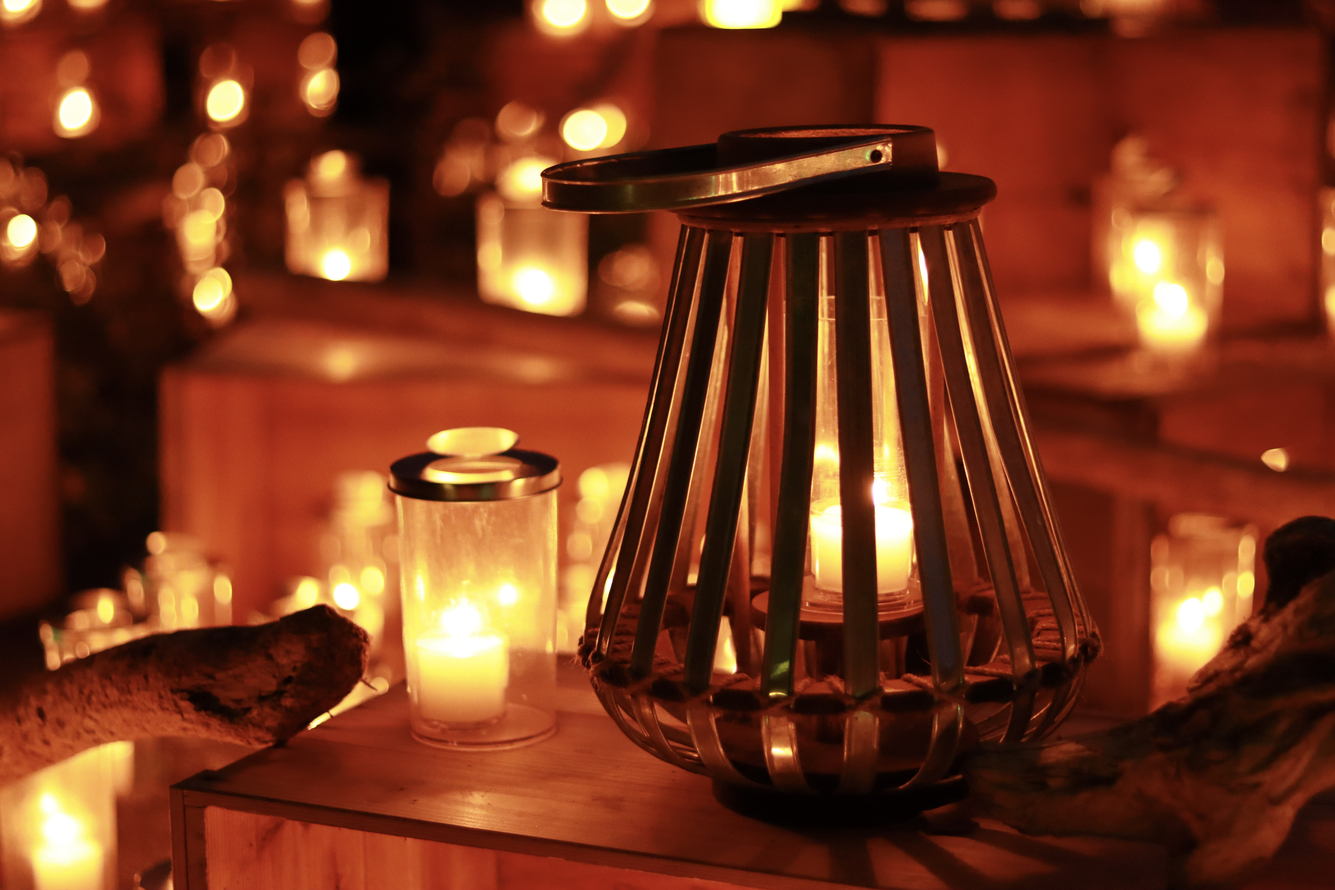
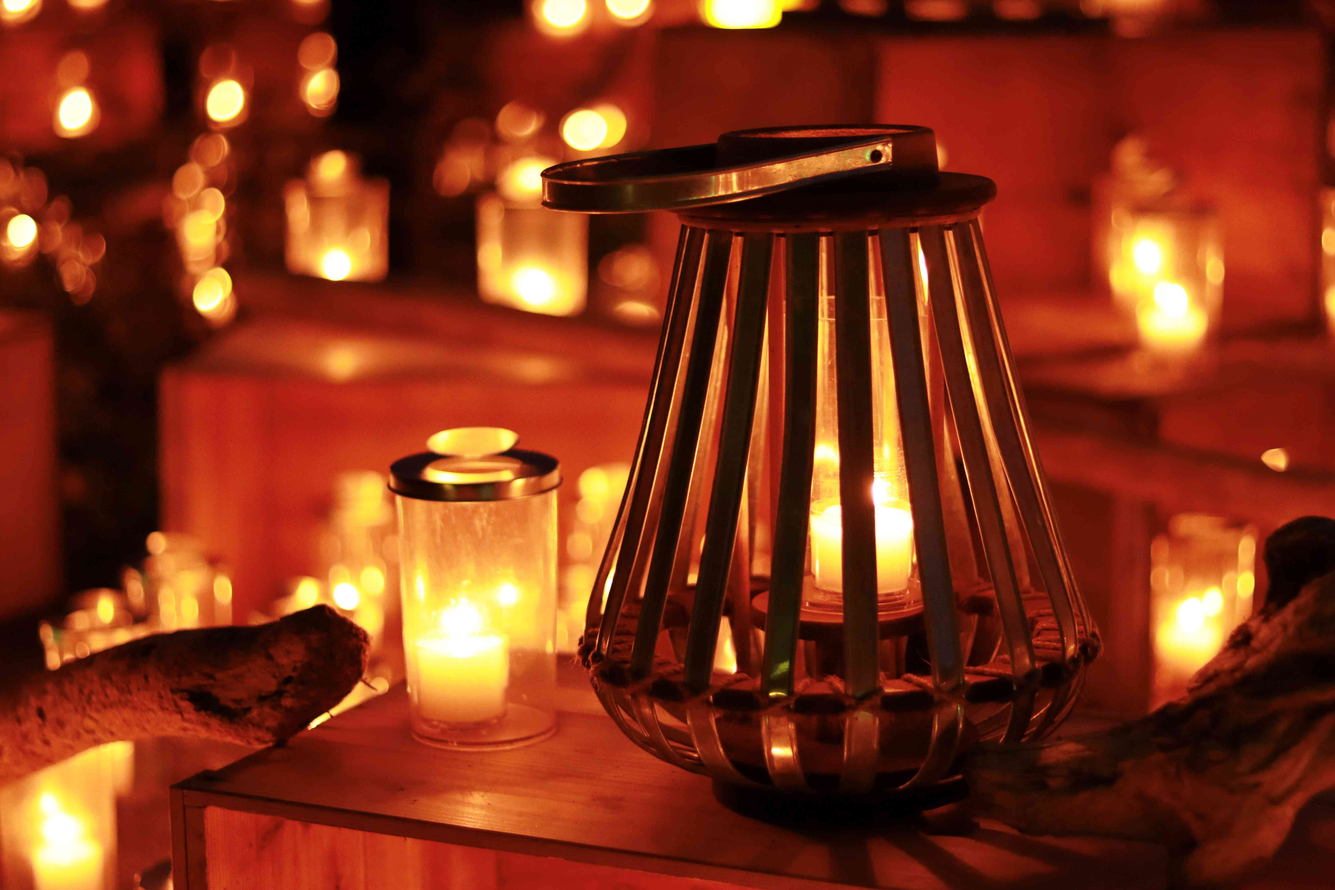
Updated

diff --git a/components/About.tsx b/components/About.tsx
@@ -18,7 +18,7 @@ const About = () => {
           >
             <div className="aspect-square bg-gray-100 rounded-2xl overflow-hidden relative shadow-md m-12">
               <Image
-                src="/IMG_303911.png"
+                src="/IMG_303911.jpg"
                 alt="プロフィール写真"
                 fill
                 className="object-cover"
